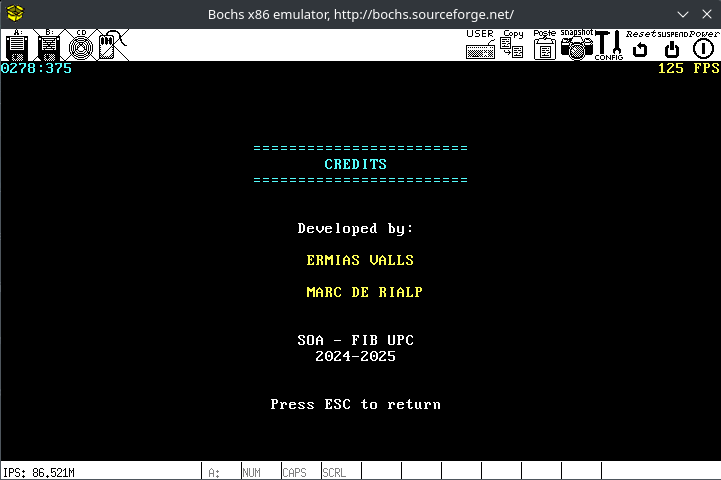
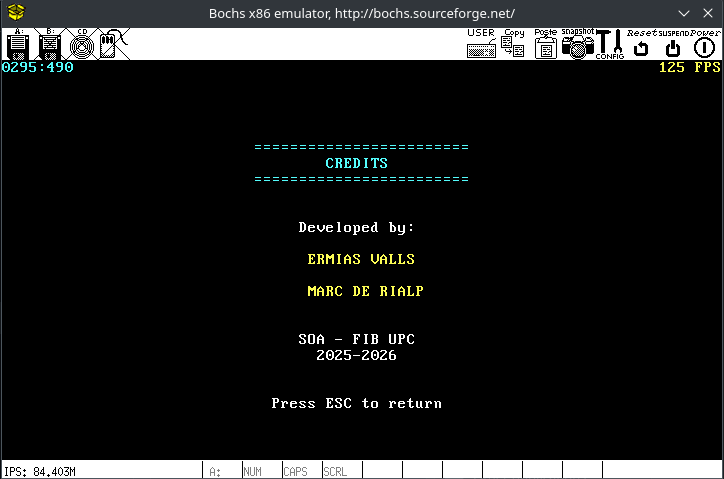
Updating year in credits

diff --git a/project/game_ui.c b/project/game_ui.c
@@ -367,7 +367,7 @@ void ui_draw_credits_screen(void) {
 
     /* Course info */
     ui_draw_centered_text(17, "SOA - FIB UPC", text_color);
-    ui_draw_centered_text(18, "2024-2025", text_color);
+    ui_draw_centered_text(18, "2025-2026", text_color);
 
     /* Return option */
     ui_draw_centered_text(21, "Press ESC to return", text_color);
